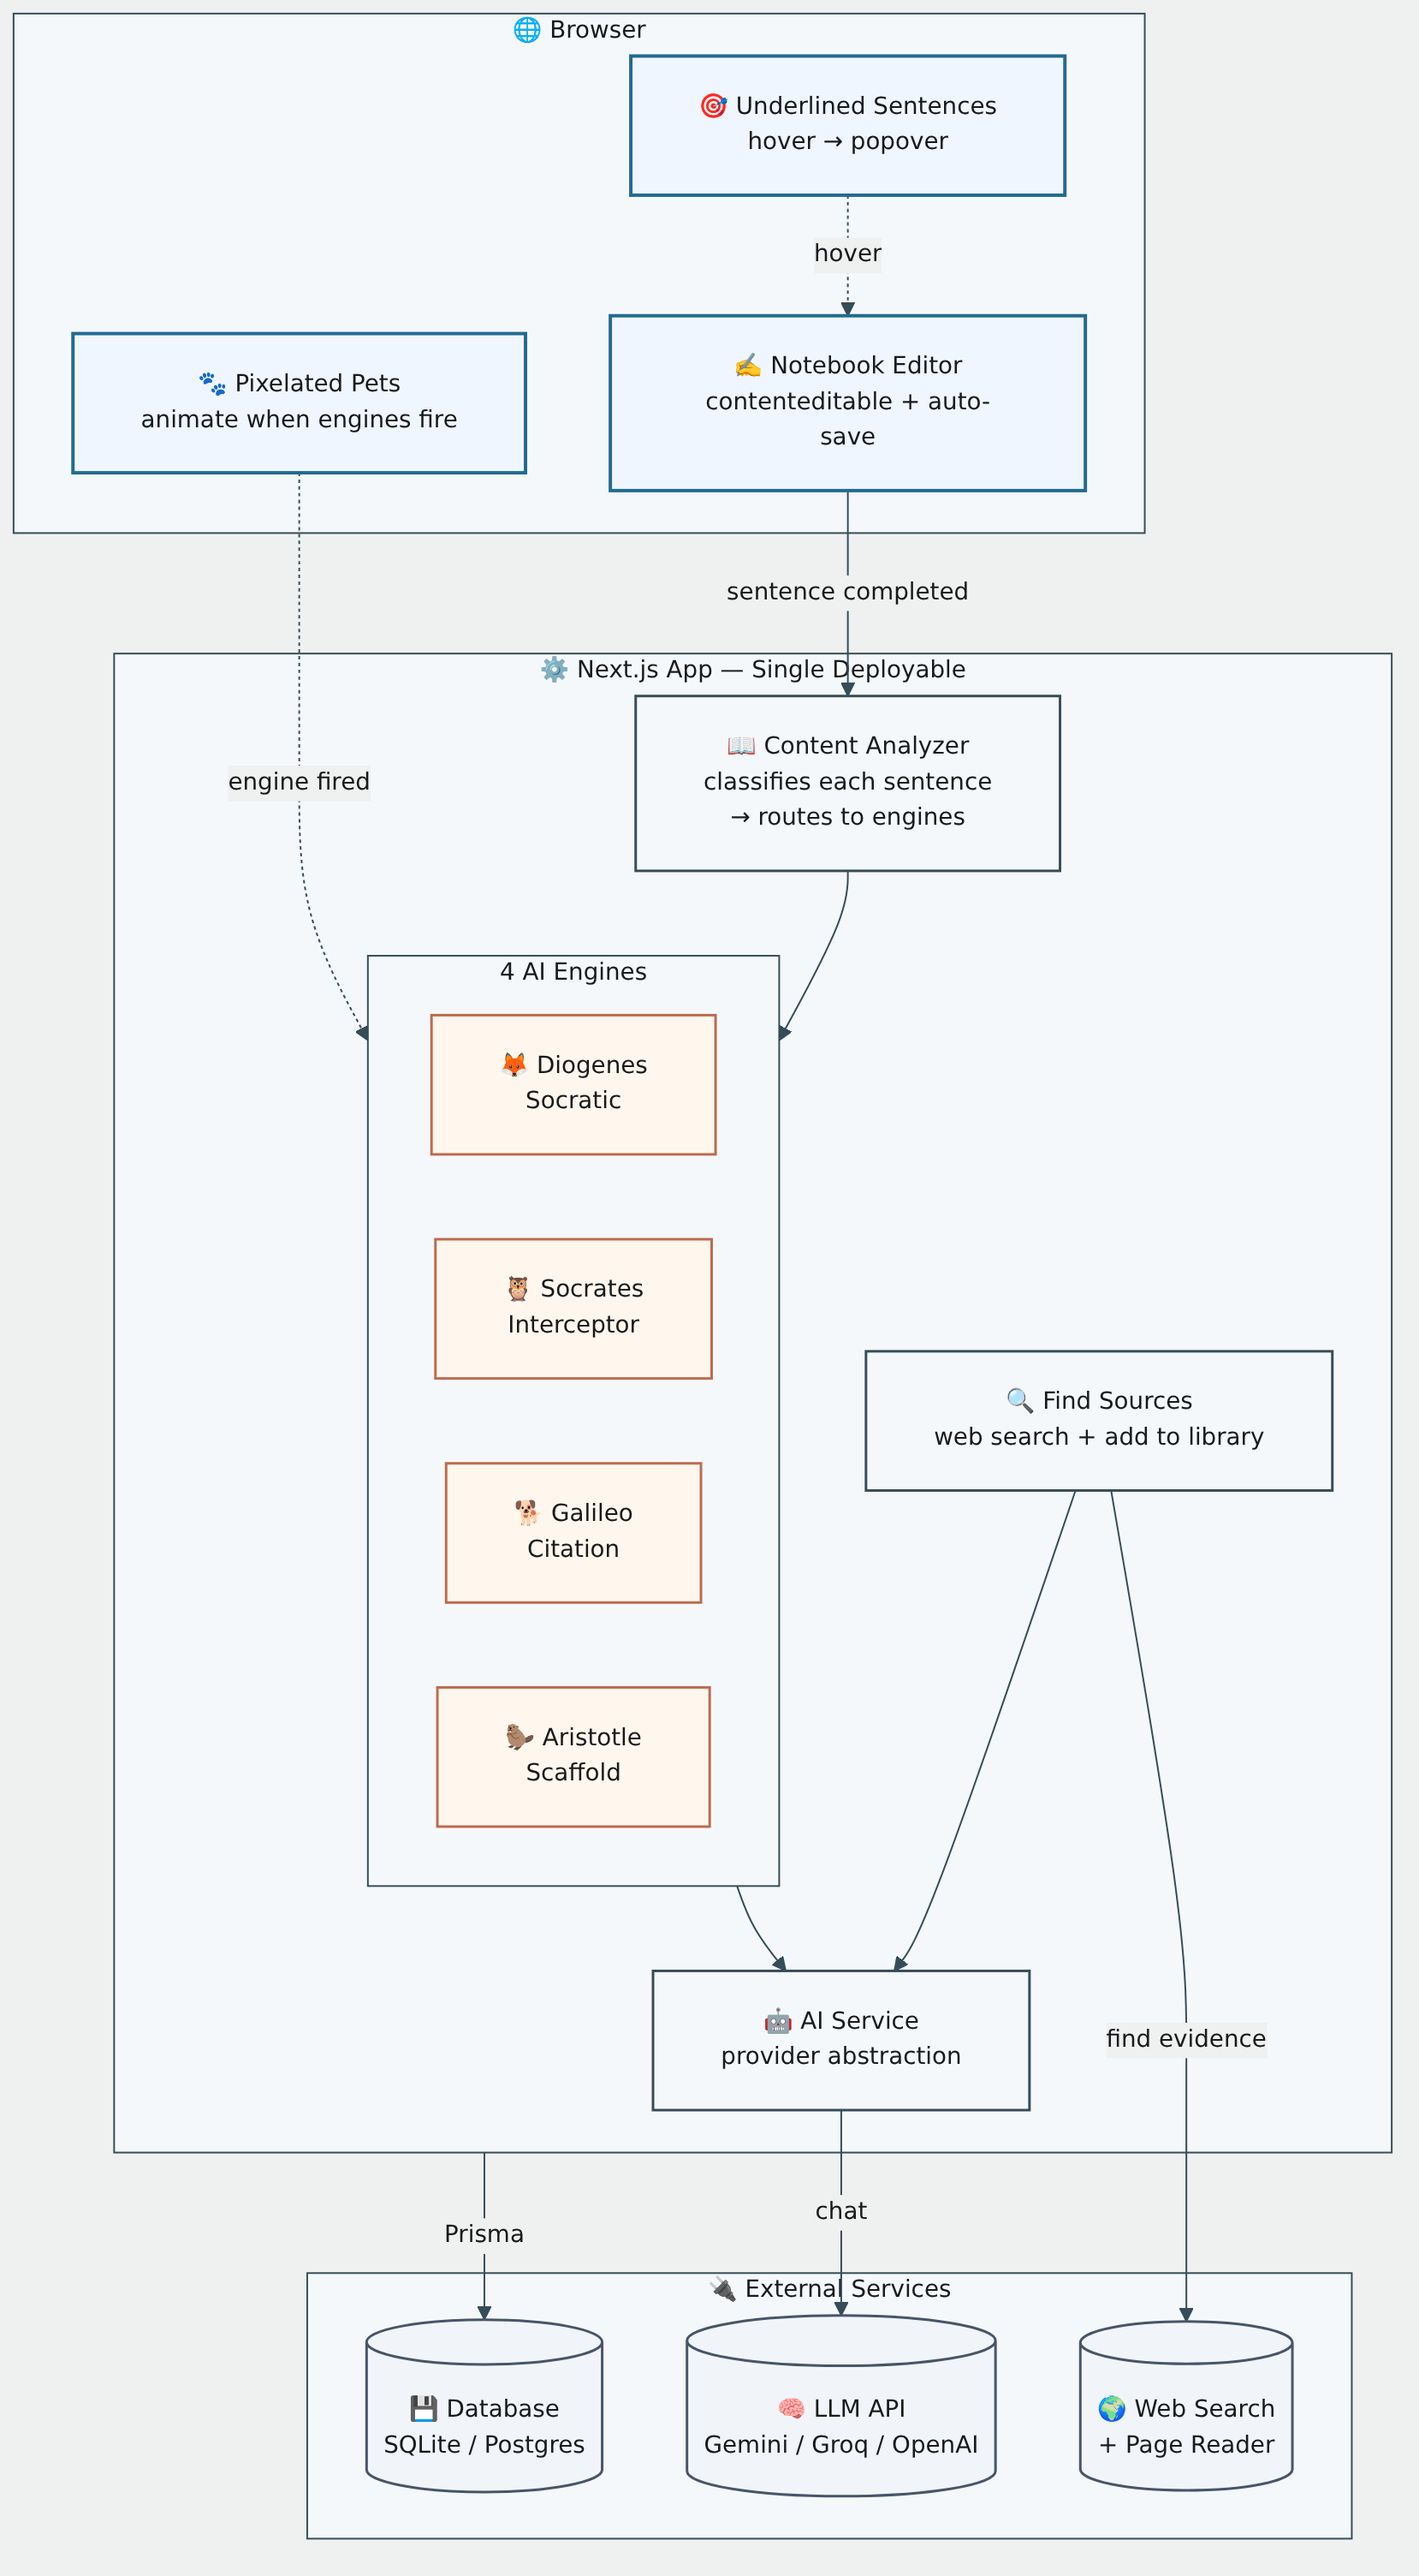
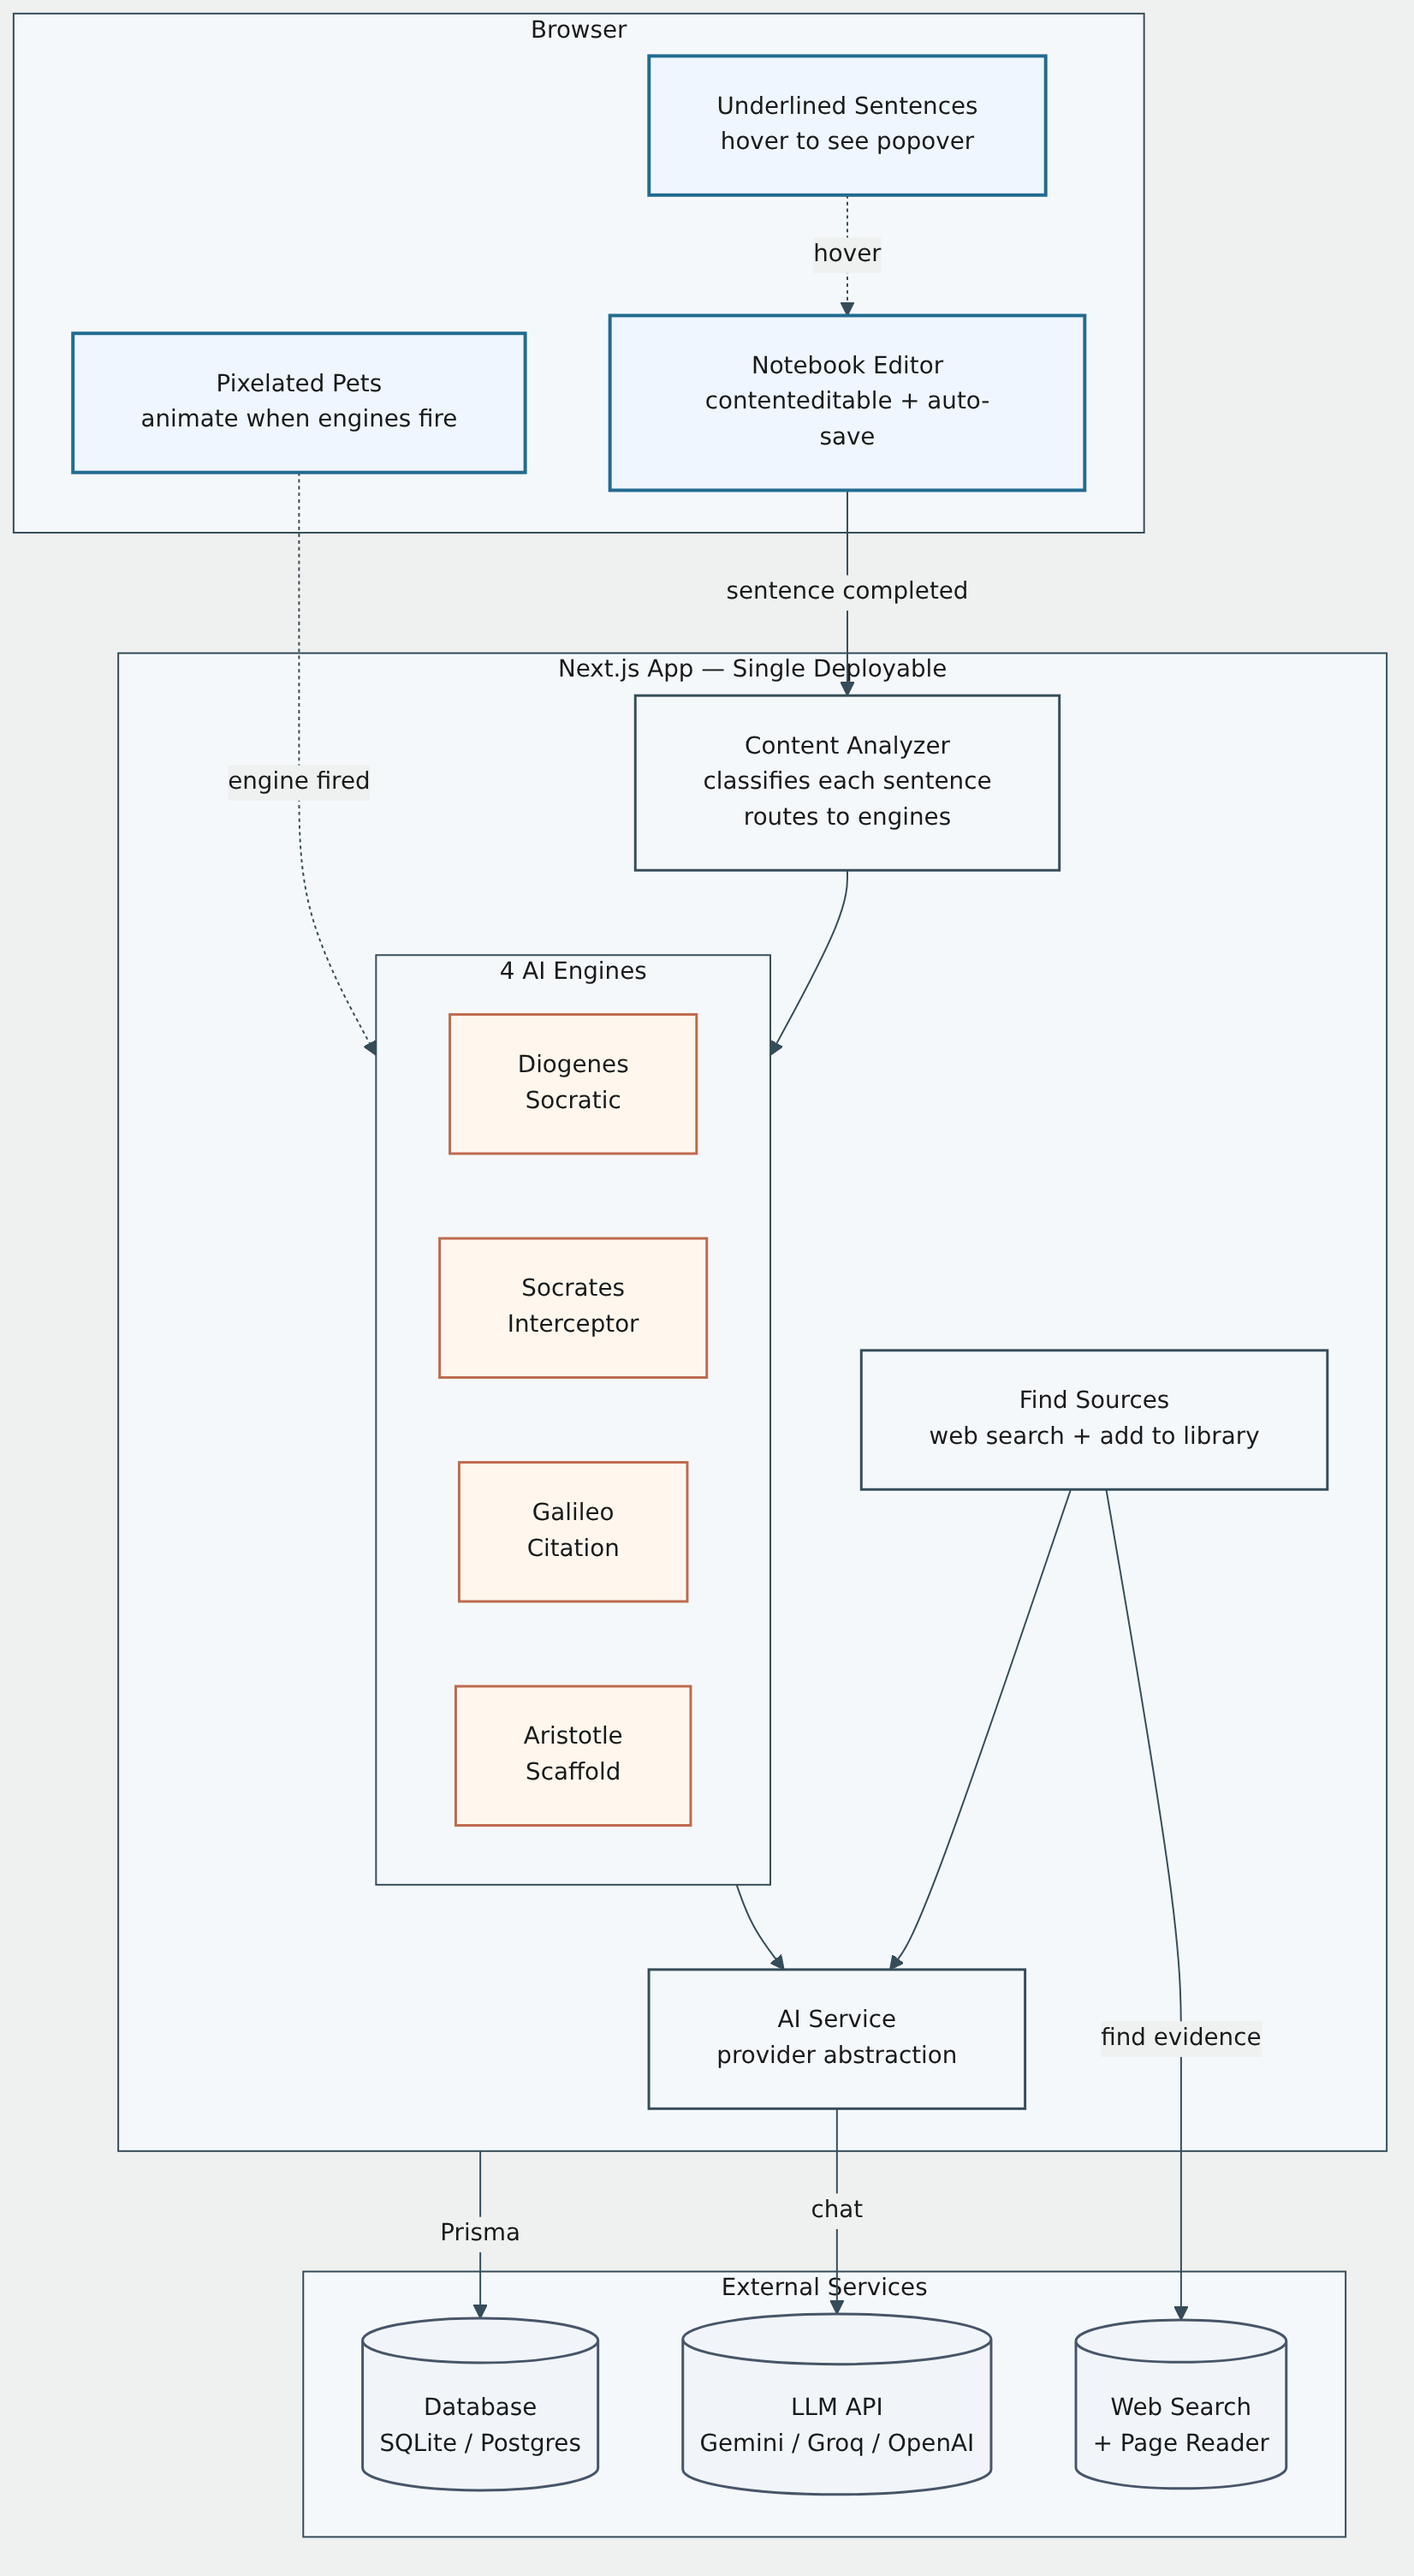
ffbfb2c1-50db-4f93-9154-c9b3a40ff1a9

diff --git a/README.md b/README.md
@@ -129,24 +129,24 @@ Open http://localhost:3000.
 
 ```
 ┌─────────────────────────────────────────────────┐
-│  🌐 Browser                                      │
-│  ├─ ✍ Notebook Editor (contenteditable)        │
-│  ├─ 🎯 Underlined Sentences (hover → popover)   │
-│  └─ 🐾 Pixelated Pets (animate when engines fire)│
+│  Browser                                         │
+│  ├─ Notebook Editor (contenteditable)            │
+│  ├─ Underlined Sentences (hover to see popover)  │
+│  └─ Pixelated Pets (animate when engines fire)   │
 └───────────────────────┬─────────────────────────┘
                         │ sentence completed
 ┌───────────────────────▼─────────────────────────┐
-│  ⚙ Next.js App (single deployable)              │
-│  ├─ 📖 Content Analyzer → routes to engines      │
+│  Next.js App (single deployable)                 │
+│  ├─ Content Analyzer → routes to engines         │
 │  ├─ 4 AI Engines:                                │
-│  │   🦊 Diogenes  🦉 Socrates  🐕 Galileo  🦫 Aristotle │
-│  ├─ 🔍 Find Sources (web search + add to library)│
-│  └─ 🤖 AI Service (provider abstraction)         │
+│  │   Diogenes  Socrates  Galileo  Aristotle      │
+│  ├─ Find Sources (web search + add to library)   │
+│  └─ AI Service (provider abstraction)            │
 └──────┬────────────────┬──────────────────────────┘
        │                │
        ▼                ▼
 ┌──────────┐    ┌──────────────┐
-│ 💾 DB    │    │ 🧠 LLM API   │
+│ Database │    │ LLM API      │
 │ SQLite/  │    │ Gemini/Groq/ │
 │ Postgres │    │ OpenAI       │
 └──────────┘    └──────────────┘
